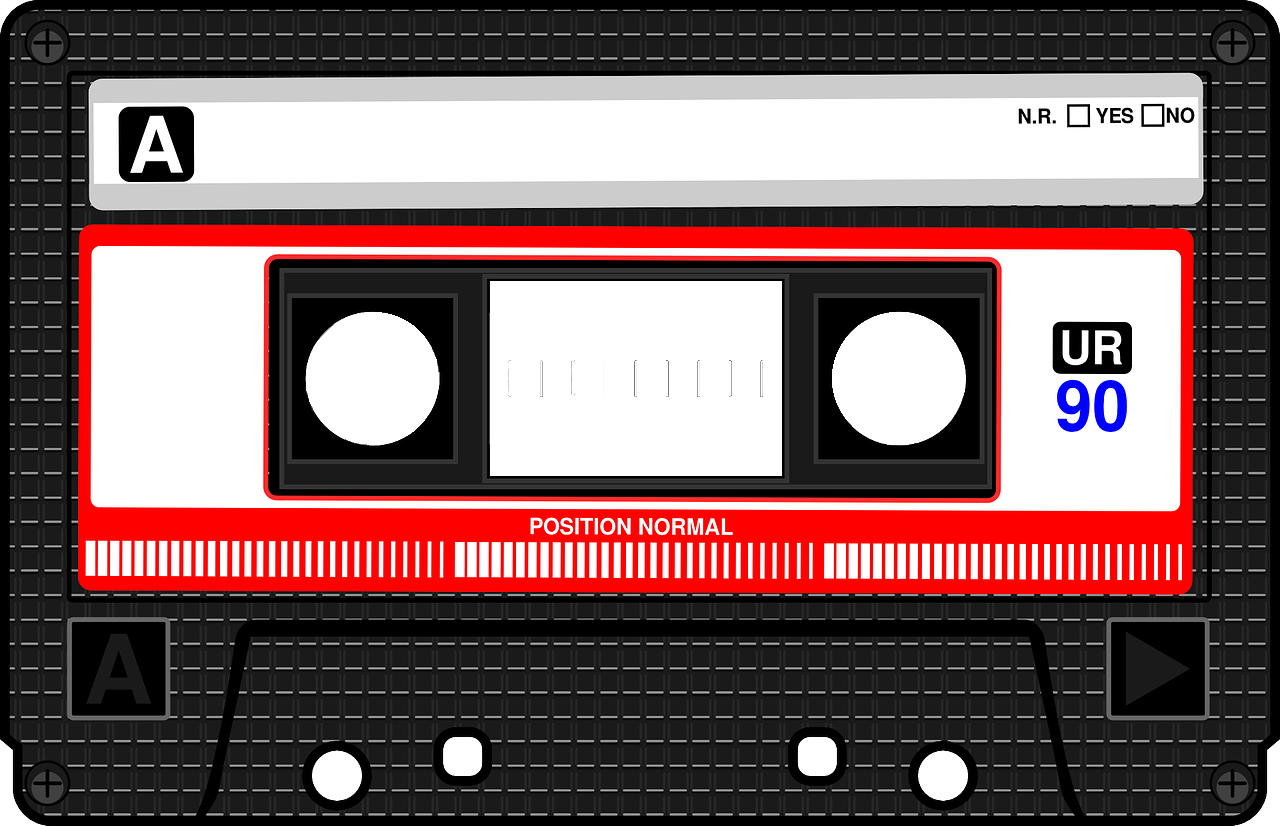
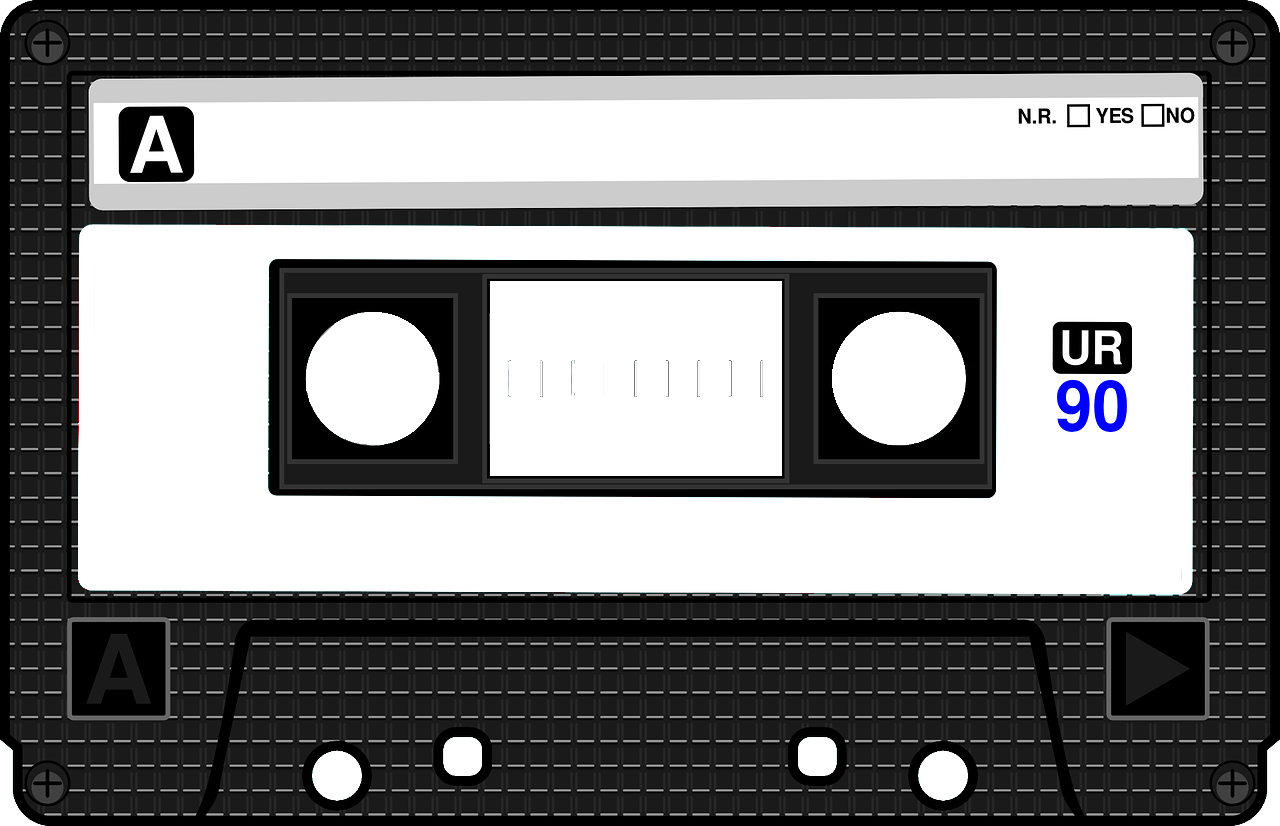
Modifying cassette image to have customizable color

Changed region(s): [[0.0625, 0.2724, 0.9375, 0.7264], [0.75, 0.4237, 0.7812, 0.4843]]

diff --git a/cassettePlayerSimulator/CassetteControl.cs b/cassettePlayerSimulator/CassetteControl.cs
@@ -7,6 +7,7 @@ using System.Linq;
 using System.Text;
 using System.Threading.Tasks;
 using System.Windows.Forms;
+using System.Drawing.Imaging;
 
 namespace cassettePlayerSimulator
 {
@@ -60,6 +61,20 @@ namespace cassettePlayerSimulator
         private Bitmap imgScaled;
 
         private SizeF baseSize;
+
+        private Color cassetteColor = Color.Red;
+        public Color CassetteColor
+        {
+            get
+            {
+                return cassetteColor;
+            }
+            set
+            {
+                cassetteColor = value;
+                Invalidate();
+            }
+        }
 
         private bool cassetteInserted = false;
         public bool CassetteInserted
@@ -155,7 +170,12 @@ namespace cassettePlayerSimulator
                 imgScaled = new Bitmap((int)destRect.Width, (int)destRect.Height);
 
                 using (Graphics g = Graphics.FromImage(imgScaled))
+                using (var b = new SolidBrush(CassetteColor))
                 {
+                    g.FillRectangle(b, 50 * scale, 200 * scale, 230 * scale, 400 * scale);
+                    g.FillRectangle(b, 980 * scale, 200 * scale, 230 * scale, 400 * scale);
+                    g.FillRectangle(b, 50 * scale, 200 * scale, 1200 * scale, 70 * scale);
+                    g.FillRectangle(b, 50 * scale, 480 * scale, 1200 * scale, 130 * scale);
                     g.DrawImage(img, destRect, new RectangleF(0, 0, img.Width, img.Height), GraphicsUnit.Pixel);
                 }
             }
